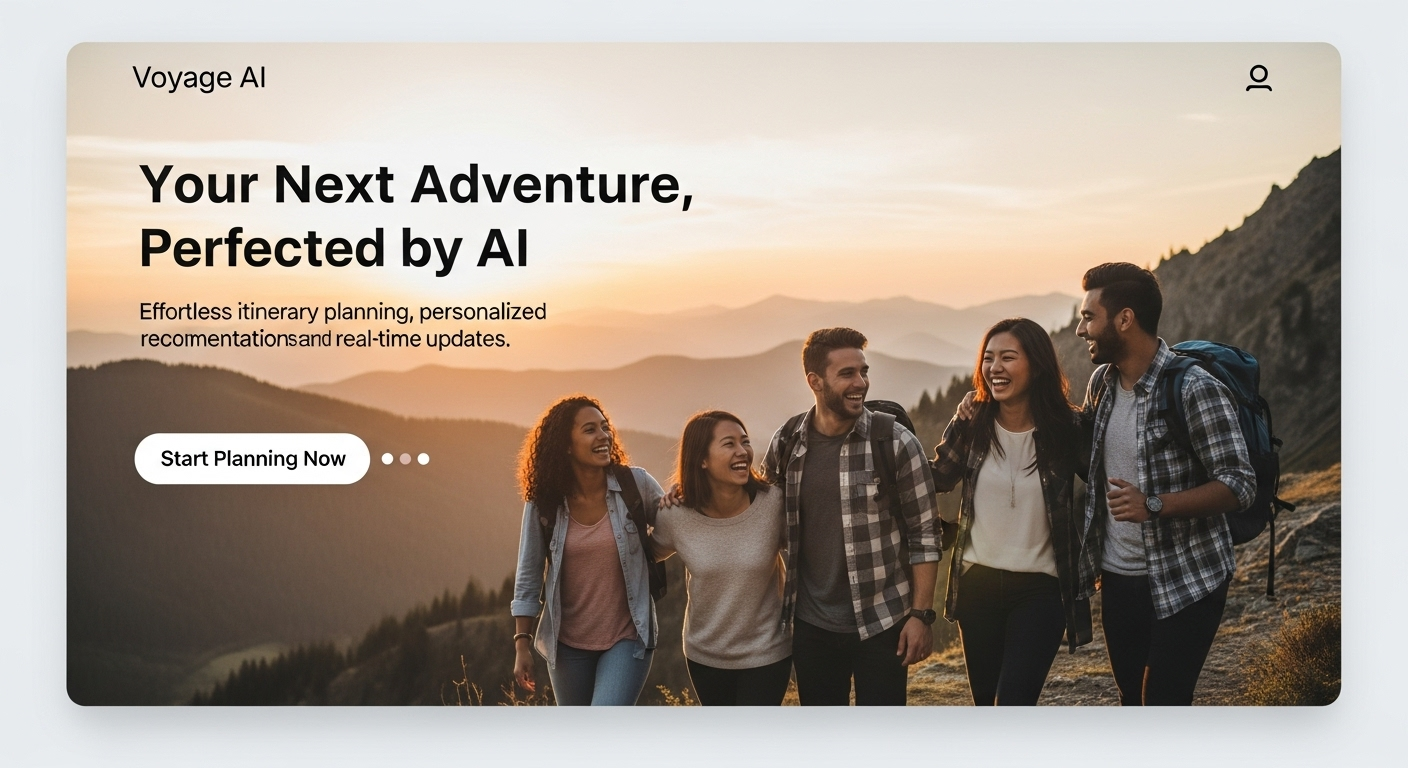
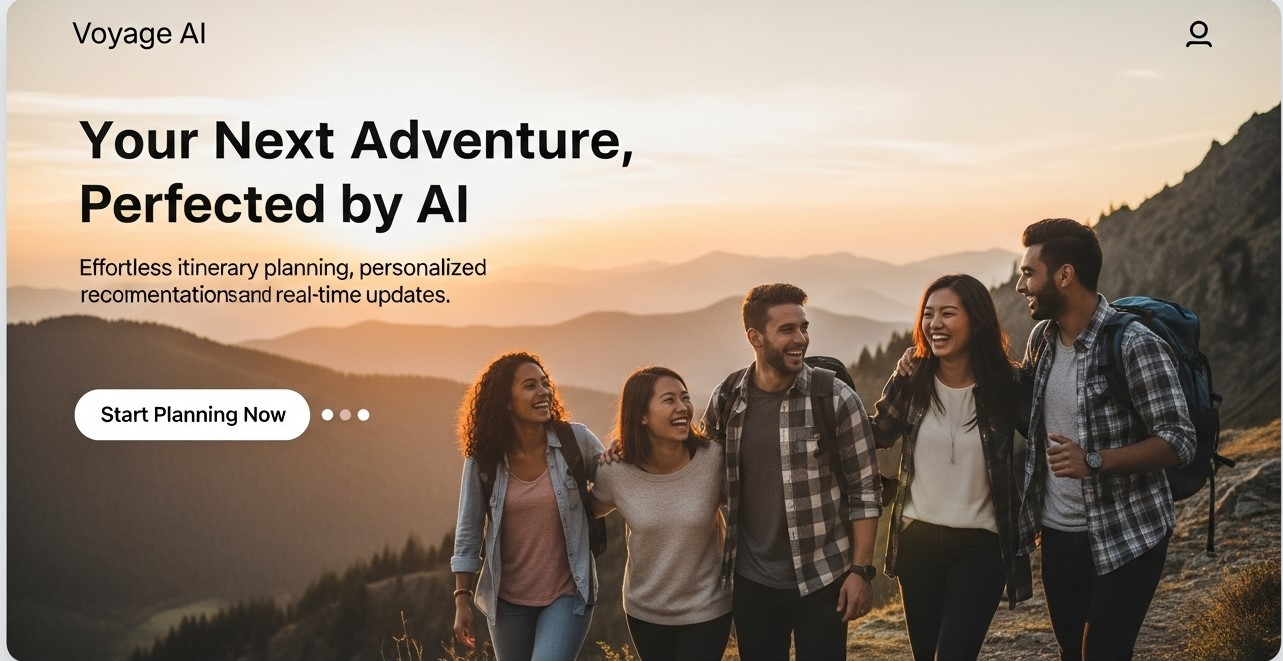
i modified the image for the landing.jpg remove the catched one away

diff --git a/src/app/services/page.tsx b/src/app/services/page.tsx
@@ -54,7 +54,7 @@ const serviceCategories = [
         id: "landing-page-design",
         title: "Landing Page Design",
         description: "We design focused, high-converting landing pages built for campaigns, product launches, and lead generation, turning visitors into customers.",
-        imageUrl: "/landing.jpg",
+        imageUrl: "/landing.jpg?v=2",
         aiHint: "website landing page",
       },
       {
